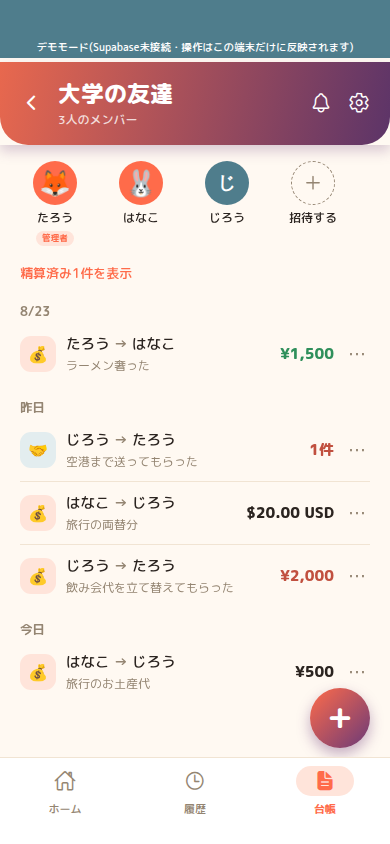
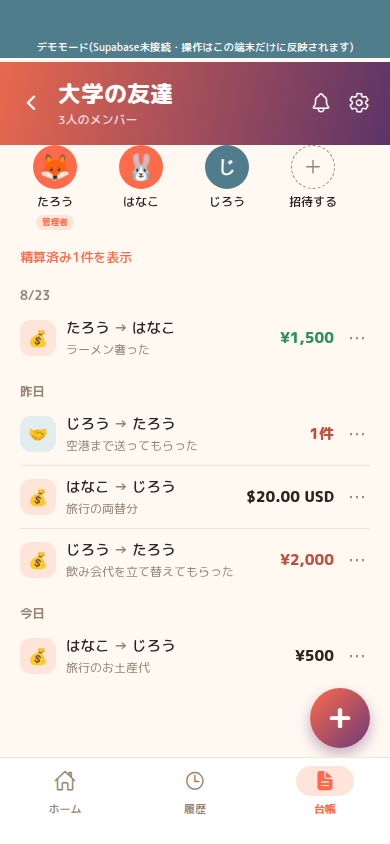
kashikari: ヘッダーカードの下部角丸をやめ、下のコンテンツと一体化させる
「『大学の友達』欄の下部分、次の要素と重なる部分でも角丸が出てしまって
いる。元画像のように、重なる部分は角丸なしで自然に伸ばし、下側の
コンテンツと一体化して見えるようにしてほしい」という指摘への対応。
スキーマ変更なし。

これまではヘッダーの下だけ角丸+影を付けて「本体の上に浮くカード」に
見せていたが、それだと下のメンバー行との継ぎ目に丸みの切れ込みや
不自然な隙間ができてしまっていた。

- borderBottomLeftRadius/borderBottomRightRadiusを削除(四角いまま)
- shadow/elevationを削除
- ヘッダーとメンバー行の間のmarginBottomを16→0にし、隙間なく
  メンバー行の直前まで背景を伸ばした
- 上部は元々角丸を付けていないため変更なし

GroupScreen.tsx / DemoGroupScreen.tsx両方に適用。tsc --noEmit /
expo export --platform web(通常+デモモード)とも問題なし。

Claude-Session: https://claude.ai/code/session_016w6H5fipiVvbtfX7sgu87W

diff --git a/personal-side-projects/kashikari/mobile/src/screens/GroupScreen.tsx b/personal-side-projects/kashikari/mobile/src/screens/GroupScreen.tsx
@@ -512,22 +512,21 @@ const styles = StyleSheet.create({
   // に変更している。
   // 影(shadow)はoverflow:'hidden'を持つViewには描画されないため、
   // 影を持つ外側のラッパーと、角丸+クリップ用の内側のViewを分けている。
+  // 「下部分の角丸を削除し、重なる部分まで自然に伸ばして下のコンテンツと
+  // 一体化させる」という指摘への対応。以前は下だけ角丸+影を付けて
+  // 「本体の上に浮くカード」に見せていたが、それだと重なり付近に丸みの
+  // 切れ込みや不自然な隙間ができてしまっていた。角丸(borderBottomLeft/
+  // RightRadius)と影(shadow/elevation)を両方やめ、四角いまま下の
+  // メンバー行の直前まで隙間なく伸ばすことで、継ぎ目のない1枚の背景に
+  // 見えるようにした。
   headerShadowWrap: {
     marginHorizontal: -20,
-    marginBottom: 16,
-    shadowColor: colors.plum,
-    shadowOpacity: 0.25,
-    shadowRadius: 12,
-    shadowOffset: { width: 0, height: 6 },
-    elevation: 6,
+    marginBottom: 0,
   },
   headerGradient: {
     paddingTop: 44,
     paddingHorizontal: 20,
     paddingBottom: 16,
-    borderBottomLeftRadius: 28,
-    borderBottomRightRadius: 28,
-    overflow: 'hidden',
   },
   headerRow: { flexDirection: 'row', alignItems: 'center' },
   // 「戻る・通知・設定の余白を統一する」ため、titleColの左右マージンを

diff --git a/personal-side-projects/kashikari/mobile/src/demo/DemoGroupScreen.tsx b/personal-side-projects/kashikari/mobile/src/demo/DemoGroupScreen.tsx
@@ -530,22 +530,16 @@ const styles = StyleSheet.create({
   // 影を持つ外側のラッパーと、角丸+クリップ用の内側のViewを分けている。
   // デモバナー自体が既にステータスバー分の余白を持っているため、
   // ここのpaddingTopはGroupScreen.tsxより控えめでよい。
+  // 「下部分の角丸を削除し、重なる部分まで自然に伸ばして下のコンテンツと
+  // 一体化させる」という指摘への対応(GroupScreen.tsxと同じ)。
   headerShadowWrap: {
     marginHorizontal: -20,
-    marginBottom: 16,
-    shadowColor: colors.plum,
-    shadowOpacity: 0.25,
-    shadowRadius: 12,
-    shadowOffset: { width: 0, height: 6 },
-    elevation: 6,
+    marginBottom: 0,
   },
   headerGradient: {
     paddingTop: 14,
     paddingHorizontal: 20,
     paddingBottom: 16,
-    borderBottomLeftRadius: 28,
-    borderBottomRightRadius: 28,
-    overflow: 'hidden',
   },
   headerRow: { flexDirection: 'row', alignItems: 'center' },
   headerRightRow: { flexDirection: 'row', alignItems: 'center', gap: 16 },
